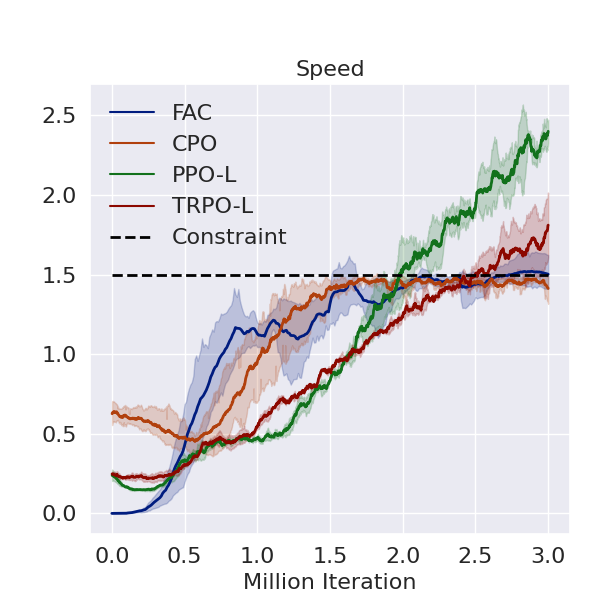
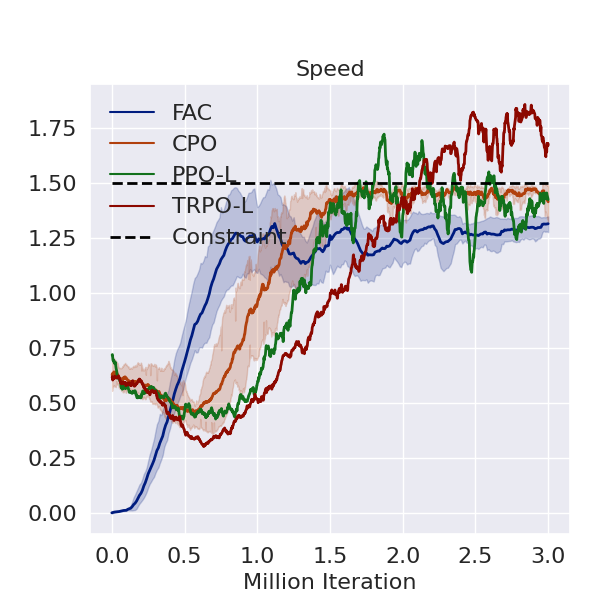
poor performance in raw spd

diff --git a/train_scripts/test_script4fsac.py b/train_scripts/test_script4fsac.py
@@ -68,12 +68,12 @@ def built_FSAC_parser():
     mode = parser.parse_args().mode
 
     if mode == 'testing':
-        test_dir = '../results/FSAC/HalfCheetah/data2plot/conti240HalfCheetah-2021-05-14-22-26-58-s3'
+        test_dir = '../results/FSAC/Walker2d/Walker2d-2021-05-19-16-18-09-s0'
         params = json.loads(open(test_dir + '/config.json').read())
         time_now = datetime.datetime.now().strftime("%Y-%m-%d-%H-%M-%S")
         test_log_dir = params['log_dir'] + '/tester/test-{}'.format(time_now)
         params.update(dict(test_dir=test_dir,
-                           test_iter_list=[600000],
+                           test_iter_list=[1000000],
                            test_log_dir=test_log_dir,
                            num_eval_episode=5,
                            num_eval_agent=1,

diff --git a/policy.py b/policy.py
@@ -325,7 +325,7 @@ class PolicyWithMu(tf.Module):
             lam_lr = PolynomialDecay(*lam_lr_schedule)
             self.Lam = value_model_cls(obs_dim, value_num_hidden_layers, value_num_hidden_units,
                                        value_hidden_activation, 1,
-                                       name='Lam', output_activation='softplus', output_bias=-10.)
+                                       name='Lam', output_activation='softplus', output_bias=-2.)
             self.Lam_optimizer = self.tf.keras.optimizers.Adagrad(lam_lr, name='lam_opt')
         else:
             lam_lr = 3e-4
